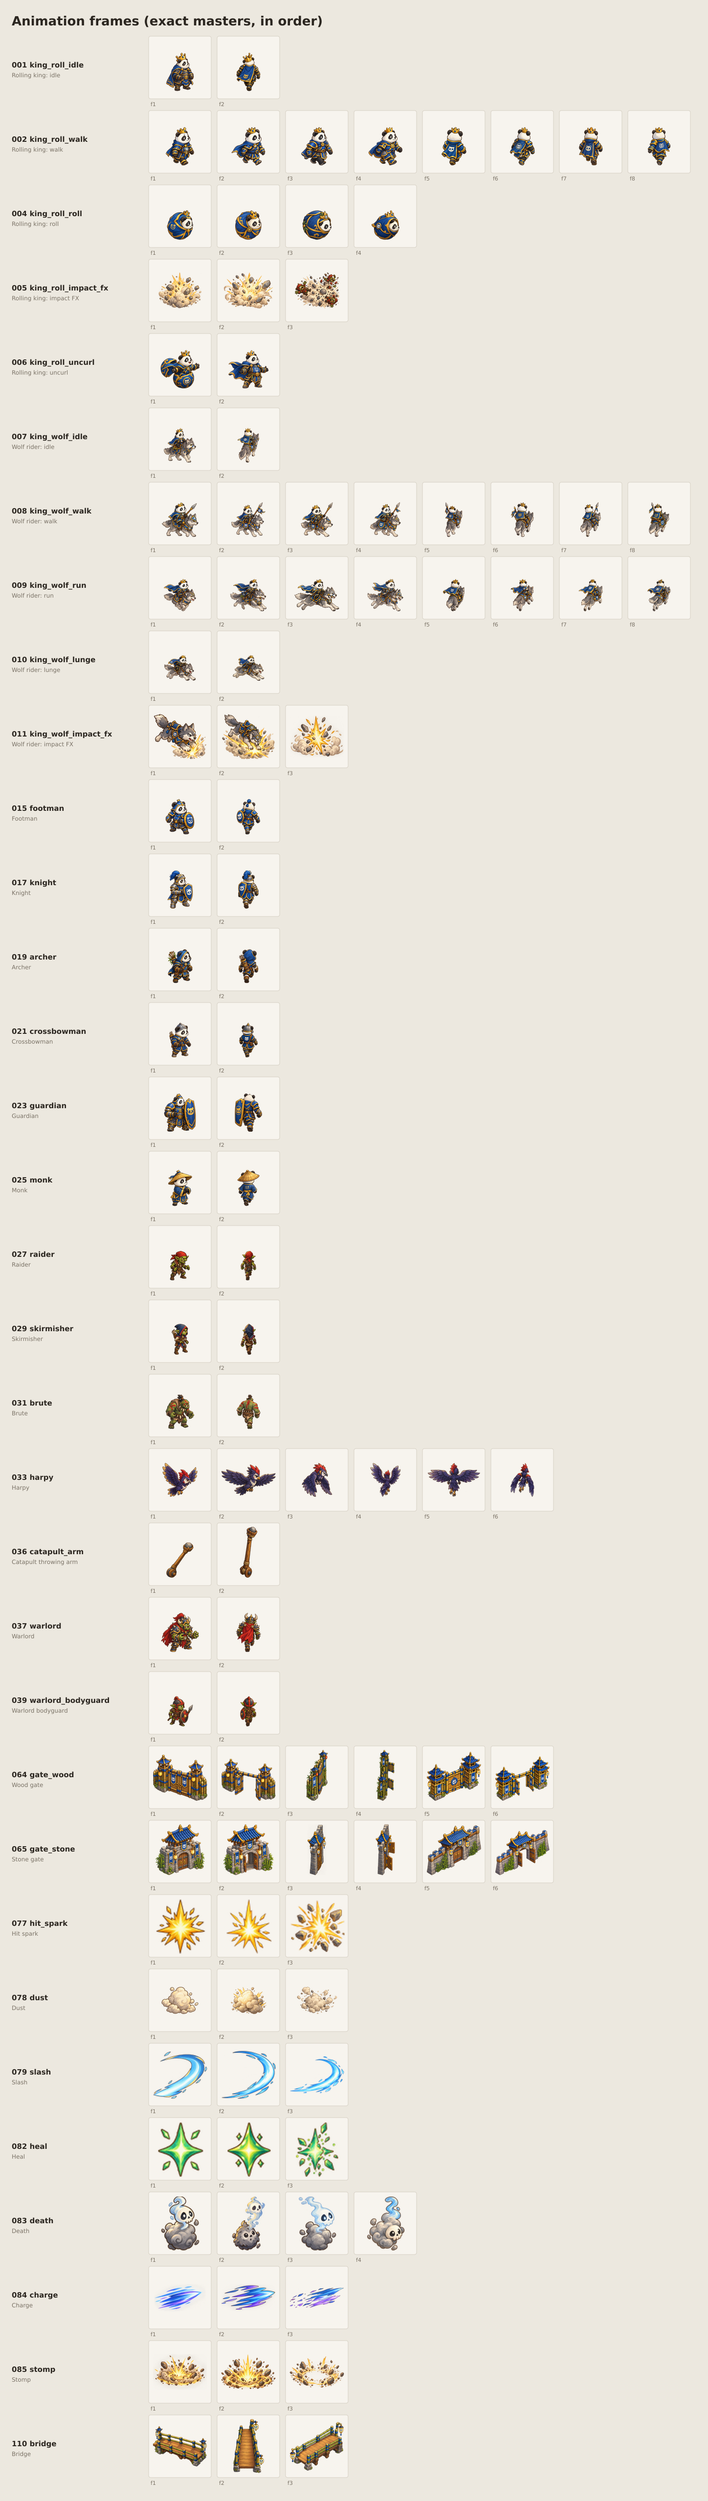
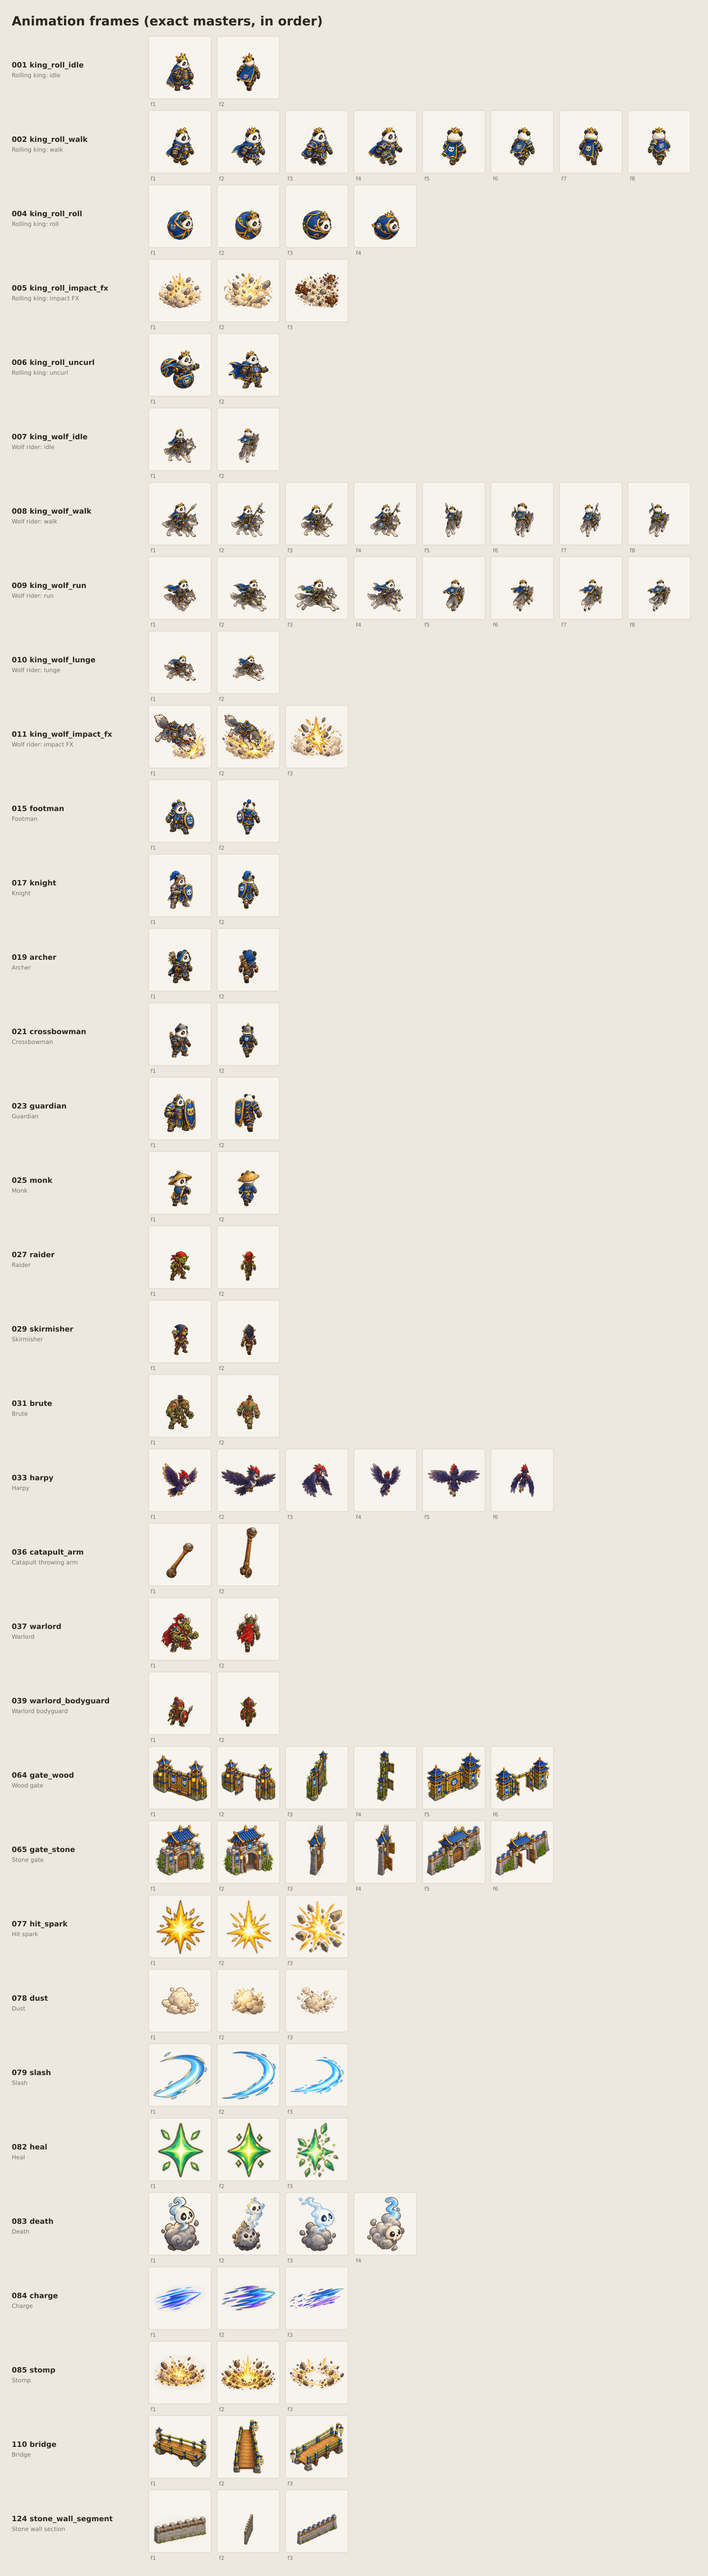
Lay stone walls as continuous painted wall sections
Adds the three stone wall section masters (front, diagonal, side; painted from the stone gate in
the same view) and draws stone wings with them instead of separate posts. Each section is fitted
between two points with the gate's upright scale, stretched sideways within a range and tilted;
near a vertical wall a section keeps its painted width and the next one starts where it really
ended, so the wall stays continuous instead of thinning to a sliver.

Claude-Session: https://claude.ai/code/session_01APSX3oh6rXQXLQrXmqzUS4

diff --git a/apps/game/src/game/PlayScene.ts b/apps/game/src/game/PlayScene.ts
@@ -55,7 +55,15 @@ import { addCliffs, CLIFF_TEXTURE, type CliffSprite } from './cliffs.ts';
 import { bobHeight, shadow, spriteFor } from './sprites.ts';
 import { addPaintedTerrain, drawTerrain, paintedPropFrame, propNeedsDepth } from './terrain.ts';
 import { emptyPlotIds, gateIsOpen, projectileFrame, ruinFrame } from './presentation.ts';
-import { gatePlacement, gateView, GATE_RIGS, groundOrigin } from './groundRigs.ts';
+import {
+  gatePlacement,
+  gateView,
+  GATE_RIGS,
+  groundOrigin,
+  SEGMENT_RIGS,
+  segmentLength,
+  segmentPlacement,
+} from './groundRigs.ts';
 
 const HIT_FLASH_MS = 160;
 const TICK_MS = 1000 / TICK_RATE;
@@ -702,7 +710,40 @@ export class PlayScene extends Phaser.Scene {
         ? { x: centre.x + hinge.x, y: centre.y + hinge.y }
         : this.px(at(sign * GATE_HALF_WIDTH));
     };
-    if (post) {
+    const segment = stone ? this.wallSegment(line.across) : null;
+    if (segment) {
+      // Stone wings: painted wall sections laid end to end from the gate to the wing's end.
+      for (const sign of [-1, 1]) {
+        const start = wingStart(sign);
+        const end = this.px(at(sign * WALL_HALF_SPAN));
+        const length = Math.hypot(end.x - start.x, end.y - start.y);
+        const count = Math.max(1, Math.round(length / segmentLength(segment.rig, SCALE)));
+        let cursor = start;
+        for (let i = 0; i < count; i++) {
+          const t = (i + 1) / count;
+          const to = { x: start.x + (end.x - start.x) * t, y: start.y + (end.y - start.y) * t };
+          const p = segmentPlacement(segment.rig, cursor, to, segment.mirror, SCALE);
+          cursor = p.end;
+          items.push({
+            y: p.at.y,
+            draw: () => {
+              const size = this.textures.getFrame(this.art.atlas(segment.frame)!, segment.frame);
+              this.painter
+                .projectedImage(
+                  this.art.atlas(segment.frame)!,
+                  segment.frame,
+                  p.at.x,
+                  p.at.y,
+                  p.matrix,
+                )
+                .setOrigin(p.anchor[0] / size.realWidth, p.anchor[1] / size.realHeight)
+                .setAlpha(alpha)
+                .setTint(sceneryTint(this.night));
+            },
+          });
+        }
+      }
+    } else if (post) {
       const width = this.textures.getFrame(this.art.atlas(post)!, post).cutWidth;
       const step = ((width * ART_SCALE) / SCALE) * 0.85;
       const span = WALL_HALF_SPAN - GATE_HALF_WIDTH;
@@ -811,6 +852,17 @@ export class PlayScene extends Phaser.Scene {
     const name = `${base}${view}`;
     const frame = this.art.at(name, open ? 0.99 : 0);
     const rig = GATE_RIGS[name];
+    return frame && rig ? { frame, mirror, rig } : null;
+  }
+
+  /** The painted stone wall section in the view closest to the wall's angle, if painted. */
+  private wallSegment(
+    across: Vec,
+  ): { frame: string; mirror: boolean; rig: (typeof SEGMENT_RIGS)[string] } | null {
+    const { view, mirror } = gateView(across, SQUASH);
+    const name = `stone_wall_segment${view}`;
+    const frame = this.art.still(name);
+    const rig = SEGMENT_RIGS[name];
     return frame && rig ? { frame, mirror, rig } : null;
   }
 

diff --git a/apps/game/src/game/groundRigs.ts b/apps/game/src/game/groundRigs.ts
@@ -152,6 +152,81 @@ export function gatePlacement(
   return { anchor, matrix, hinges };
 }
 
+/**
+ * Stone wall sections: the front-bottom edge of each painted view, from its left end to its
+ * right end, a few pixels in from the tips so neighbouring sections overlap without a seam.
+ */
+export const SEGMENT_RIGS: Record<
+  string,
+  readonly [readonly [number, number], readonly [number, number]]
+> = {
+  stone_wall_segment: [
+    [18, 167],
+    [176, 139],
+  ],
+  'stone_wall_segment.diag': [
+    [38, 169],
+    [158, 120],
+  ],
+  'stone_wall_segment.side': [
+    [86, 171],
+    [109, 125],
+  ],
+};
+
+/**
+ * How far a section may be narrowed or stretched sideways. Narrowing a side view much below its
+ * painted width turns it into a sliver, so near a vertical wall the sections keep their width
+ * and are chained end to end instead (see segmentPlacement).
+ */
+export const SEGMENT_WIDTH_RANGE = [0.9, 1.6] as const;
+
+/**
+ * One painted wall section standing between two screen points (pixels), in the same view and
+ * mirroring as its gate, with the gate's upright scale. Like the gate it is stretched sideways
+ * within SEGMENT_WIDTH_RANGE and tilted to meet `to` vertically, never flattened onto the line.
+ * When the width limit stops it short of `to` sideways, `end` says where it really ends, so the
+ * next section starts there and the wall stays continuous (drifting a little off a vertical
+ * line rather than zigzagging). Draw it at `at` with `anchor` as its origin.
+ */
+export function segmentPlacement(
+  hinges: readonly [readonly [number, number], readonly [number, number]],
+  from: { x: number; y: number },
+  to: { x: number; y: number },
+  mirror: boolean,
+  pixelsPerM: number,
+) {
+  const [a, b] = hinges;
+  const dx = b[0] - a[0];
+  const dy = b[1] - a[1];
+  const width = (pixelsPerM / 64) * GATE_UPRIGHT_SCALE;
+  const sign = mirror ? -1 : 1;
+  // The section is undirected: run it whichever way its painted left end leads.
+  let t = { x: to.x - from.x, y: to.y - from.y };
+  if (t.x * sign < 0 || (t.x === 0 && t.y > 0)) t = { x: -t.x, y: -t.y };
+  const sx = Math.min(
+    Math.max(Math.abs(t.x) / dx, SEGMENT_WIDTH_RANGE[0] * width),
+    SEGMENT_WIDTH_RANGE[1] * width,
+  );
+  const flip = t.x !== to.x - from.x || t.y !== to.y - from.y ? -1 : 1;
+  const end = { x: from.x + flip * sign * sx * dx, y: from.y + flip * t.y };
+  return {
+    anchor: [(a[0] + b[0]) / 2, (a[1] + b[1]) / 2] as const,
+    at: { x: (from.x + end.x) / 2, y: (from.y + end.y) / 2 },
+    end,
+    matrix: { a: sign * sx, b: (t.y - dy * width) / dx, c: 0, d: width },
+  };
+}
+
+/** How long one painted section is on screen (pixels) at the gate's scale, before fitting. */
+export function segmentLength(
+  hinges: readonly [readonly [number, number], readonly [number, number]],
+  pixelsPerM: number,
+): number {
+  const width = (pixelsPerM / 64) * GATE_UPRIGHT_SCALE;
+  return Math.hypot(hinges[1][0] - hinges[0][0], hinges[1][1] - hinges[0][1]) * width;
+}
+
 export interface Affine2D {
   a: number;
   b: number;

diff --git a/apps/game/test/groundRigs.test.ts b/apps/game/test/groundRigs.test.ts
@@ -8,6 +8,9 @@ import {
   groundOrigin,
   GATE_WIDTH_RANGE,
   GROUND_ANCHORS,
+  SEGMENT_RIGS,
+  SEGMENT_WIDTH_RANGE,
+  segmentPlacement,
 } from '../src/game/groundRigs.ts';
 import { GATE_HALF_WIDTH, wallLine, Session } from '@kd/core';
 import { prototypeContent, prototypeRun } from '@kd/content/prototype';
@@ -142,6 +145,60 @@ describe('gate placement', () => {
           expect(hinges[1]![i]!.y).toBeCloseTo(hinges[0]![i]!.y);
         }
       }
+    }
+  });
+});
+
+describe('stone wall sections', () => {
+  const width = (SCALE / 64) * GATE_UPRIGHT_SCALE;
+
+  it('has a calibrated run for every painted view, inside the painted section', () => {
+    const frames = atlas('structures');
+    for (const [name, [a, b]] of Object.entries(SEGMENT_RIGS)) {
+      const f = frames[name]!;
+      expect(f, name).toBeDefined();
+      for (const [x, y] of [a, b]) {
+        expect(x).toBeGreaterThan(f.spriteSourceSize.x);
+        expect(x).toBeLessThan(f.spriteSourceSize.x + f.spriteSourceSize.w);
+        expect(y).toBeLessThanOrEqual(f.spriteSourceSize.y + f.spriteSourceSize.h);
+      }
+      expect(b[0]).toBeGreaterThan(a[0]);
+    }
+  });
+
+  it('lays a continuous, upright, never-flattened wall at every angle, both lane directions', () => {
+    for (let angle = 0; angle < 360; angle += 3) {
+      const r = (angle * Math.PI) / 180;
+      const across = { x: Math.cos(r), y: Math.sin(r) };
+      const { view, mirror } = gateView(across, SQUASH);
+      const rig = SEGMENT_RIGS[`stone_wall_segment${view}`]!;
+      const step = { x: across.x * 1.2 * SCALE, y: across.y * 1.2 * SCALE * SQUASH };
+      let cursor = { x: 0, y: 0 };
+      for (let i = 1; i <= 3; i++) {
+        const to = { x: step.x * i, y: step.y * i };
+        const p = segmentPlacement(rig, cursor, to, mirror, SCALE);
+        const m = p.matrix;
+        expect(m.c).toBe(0);
+        expect(m.d).toBe(width);
+        expect(Math.abs(m.a)).toBeGreaterThanOrEqual(SEGMENT_WIDTH_RANGE[0] * width - 1e-9);
+        // The painted run, mapped, goes from `cursor` to `end` through `at`.
+        const [a, b] = rig;
+        const half = {
+          x: (m.a * (b[0] - a[0])) / 2,
+          y: (m.b * (b[0] - a[0]) + m.d * (b[1] - a[1])) / 2,
+        };
+        const ends = [
+          { x: p.at.x - half.x, y: p.at.y - half.y },
+          { x: p.at.x + half.x, y: p.at.y + half.y },
+        ];
+        const near = (u: { x: number; y: number }, v: { x: number; y: number }) =>
+          Math.hypot(u.x - v.x, u.y - v.y) < 1e-6;
+        expect(ends.some((e) => near(e, cursor)) && ends.some((e) => near(e, p.end))).toBe(true);
+        expect(p.end.y).toBeCloseTo(to.y);
+        cursor = p.end;
+      }
+      // A whole wing drifts at most half a metre sideways from its true end.
+      expect(Math.abs(cursor.x - step.x * 3)).toBeLessThan(SCALE / 2);
     }
   });
 });

diff --git a/art/review/AUDIT.md b/art/review/AUDIT.md
@@ -1,6 +1,6 @@
 # Panda art audit
 
-Generated by `pnpm art audit`. 123/123 logical assets complete; 199 generation parts in total.
+Generated by `pnpm art audit`. 124/124 logical assets complete; 202 generation parts in total.
 **Complete.**
 
 | # | id | parts | masters | runtime | state | problems |
@@ -128,3 +128,4 @@ Generated by `pnpm art audit`. 123/123 logical assets complete; 199 generation p
 | 121 | ruin_archery_range | 1 | 1 | 1 | validated |  |
 | 122 | ruin_marksmen | 1 | 1 | 1 | validated |  |
 | 123 | ruin_crossbow_range | 1 | 1 | 1 | validated |  |
+| 124 | stone_wall_segment | 3 | 3 | 3 | 3 validated |  |
